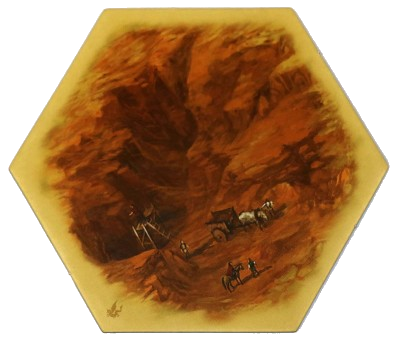
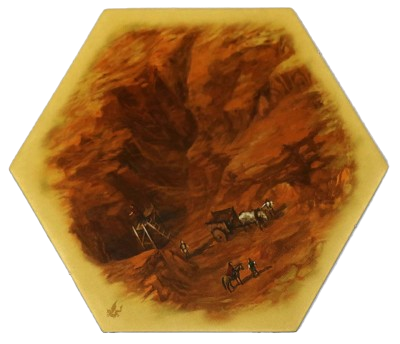
some glitch fixes and tile cleaning

diff --git a/src/services/crownService.js b/src/services/crownService.js
@@ -241,36 +241,12 @@ const crownService = {
     return await db.queryItems({
       query: "SELECT * FROM c WHERE c.partitionKey = 'CROWN'"
     });
-  },  async resolvePlacement(p, idx, players, division) {
-    if (typeof p === 'string') {
-      const trimmedName = p.trim();
-      let player = players.find(pl => pl.name.toLowerCase() === trimmedName.toLowerCase());
-      if (!player) {
-        player = {
-          id: `player_${uuidv4()}`,
-          partitionKey: 'PLAYER',
-          type: 'player',
-          name: trimmedName,
-          createdAt: new Date().toISOString()
-        };
-        await db.createItem(player);
-        players.push(player);
-      }
-      return {
-        playerId: player.id,
-        playerName: player.name,
-        victoryPoints: idx === 0 ? 10 : (idx === 1 ? 8 : (idx === 2 ? 7 : (idx === 3 ? 6 : (idx === 4 ? 5 : 4)))),
-        place: idx + 1,
-        settlements: null,
-        cities: null,
-        metropolis: null,
-        longestRoad: null
-      };
-    }
-
-    const resolved = { ...p };
-    if (!resolved.playerId && resolved.playerName) {
-      const trimmedName = resolved.playerName.trim();
+  },
+  async resolvePlacement(p, idx, players, division) {
+    const resolved = typeof p === 'string' ? { playerName: p.trim() } : { ...p };
+    
+    const trimmedName = (resolved.playerName || resolved.name || '').trim();
+    if (trimmedName) {
       let player = players.find(pl => pl.name.toLowerCase() === trimmedName.toLowerCase());
       if (!player) {
         player = {
@@ -325,7 +301,7 @@ const crownService = {
 
     // 3. Re-process matches in order
     for (const match of matches) {
-      let needsFix = match.placements.some(p => typeof p === 'string' || !p.playerId || p.place === undefined || p.place === null);
+      let needsFix = true; // FORCE FIX TO RESOLVE BAD UUIDS
       if (!needsFix) {
         // Double check winner has place === 1
         const hasWinner = match.placements.some(p => p.place === 1);

diff --git a/debug.js b/debug.js
@@ -1,0 +1,13 @@
+const db = require('./src/db');
+require('dotenv').config();
+
+(async () => {
+  await db.init();
+  const players = await db.queryItems({
+    query: "SELECT * FROM c WHERE c.partitionKey = 'PLAYER' AND c.type = 'player'"
+  });
+  
+  const matiasPlayers = players.filter(p => p.name.toLowerCase() === 'matias');
+  console.log(JSON.stringify(matiasPlayers, null, 2));
+})();
+

diff --git a/public/app.js b/public/app.js
@@ -441,6 +441,14 @@ function renderHexBoard(players) {
     .then(data => {
       const stats = data.playerStats;
 
+      let currentTieRank = 0;
+      stats.forEach((p, idx) => {
+        if (idx > 0 && p.totalWins < stats[idx - 1].totalWins) {
+          currentTieRank++;
+        }
+        p.tieRank = currentTieRank;
+      });
+
       const hexWidth = 120;
       const hexHeight = 104;
       const renderWidth = 124;
@@ -518,11 +526,11 @@ function renderHexBoard(players) {
           hex.classList.add(`hex-${resource}`);
 
           const wins = h.player.totalWins || 0;
-          const isRed = h.rank === 0 || wins >= 5;
+          const isRed = h.player.tieRank === 0 || wins >= 5;
           const numClass = isRed ? 'token-number is-red' : 'token-number';
           const dotClass = isRed ? 'token-dot is-red' : 'token-dot';
 
-          const dotCount = wins === 0 ? 1 : Math.min(5, Math.max(1, wins + 1));
+          const dotCount = Math.max(1, 5 - h.player.tieRank);
           let dotsHtml = '';
           for (let i = 0; i < dotCount; i++) {
             dotsHtml += `<div class="${dotClass}"></div>`;

diff --git a/public/style.css b/public/style.css
@@ -157,6 +157,13 @@ body {
   letter-spacing: 0.5px;
 }
 
+.main-logo {
+  max-width: 400px;
+  width: 100%;
+  height: auto;
+  filter: drop-shadow(0 2px 4px rgba(0,0,0,0.5));
+}
+
 .crown-badge .crown-icon {
   font-size: 1.8rem;
   margin-bottom: 2px;

diff --git a/public/index.html b/public/index.html
@@ -10,7 +10,7 @@
 
 <body>
   <header class="tactile-header">
-    <h1>CATAN LINEAL CHAMPIONSHIP</h1>
+    <img src="images/catan.png" alt="Catan Lineal Championship" class="main-logo">
     <p>Tracking matches and UFC-style division crowns</p>
   </header>
 